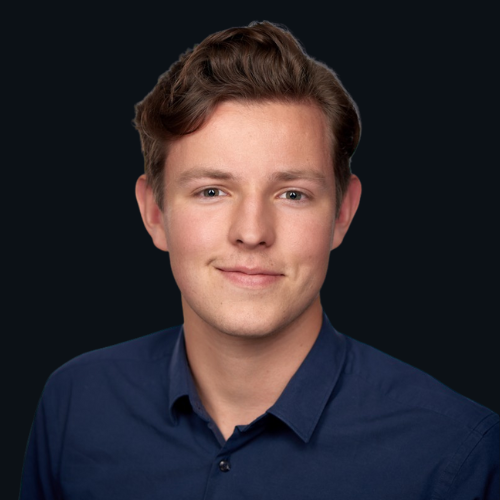
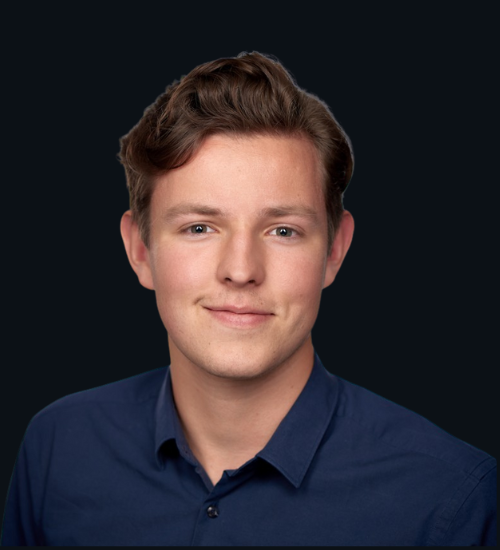
hero and navbar mobile done

diff --git a/src/Components/Hero.jsx b/src/Components/Hero.jsx
@@ -10,7 +10,7 @@ function Hero() {
         <h1>
           Full-Stack <span>Web Developer</span>{" "}
         </h1>
-        <img width={300} src={Piet} alt="piet-hein" />
+        <img width={290} src={Piet} alt="piet-hein" />
         <p>
           “With a passion for building websites and full-stack applications, I
           combine creativity, problem-solving, and a results-driven approach to
@@ -22,9 +22,9 @@ function Hero() {
             <span>
               <svg
                 xmlns="http://www.w3.org/2000/svg"
-                width="25"
-                height="13"
-                viewBox="0 0 20 25"
+                width="18"
+                height="11"
+                viewBox="0 0 20 22"
               >
                 <path
                   fill="#02609a"

diff --git a/src/index.css b/src/index.css
@@ -35,13 +35,13 @@ h2 {
 .primary-button {
   background-image: linear-gradient(to right, #02609a, #77BFD2);
   border-radius: 20px;
-  width: 140px;
+  width: 130px;
   border-style: none;
   color: #FFFFFF;
   cursor: pointer;
   font-size: 15px;
   font-weight: 500;
-  height: 40px;
+  height: 35px;
   padding: 10px;
   text-align: center;
   text-shadow: rgba(0, 0, 0, 0.25) 0 3px 8px;
@@ -64,10 +64,16 @@ h2 {
   color: #02609a;
   padding: 10px;
   border-radius: 20px;
-  width: 140px;
+  width: 130px;
   text-align: center;
-  height: 40px;
-  font-size: 15px;
+  height: 35px;
+  font-size: 14px;
 
 }
 
+.secondary-button:hover {
+  cursor: pointer;
+  transform: scale(1.02);
+  border: 1px solid #0978bd;
+  box-shadow: #118edc21 0px 8px 24px;
+}

diff --git a/src/Components/Navbar.jsx b/src/Components/Navbar.jsx
@@ -12,7 +12,7 @@ function Navbar() {
       <div className="navbar-container">
         <div className="logo">
           <NavLink to="/">
-            <img width={60} src={logo} alt="logo" />
+            <img width={55} src={logo} alt="logo" />
           </NavLink>
         </div>
         <nav>
@@ -46,7 +46,7 @@ function Navbar() {
           <button className="primary-button">Let's connect</button>
         </div>
         <div className="menu">
-          <img width={40} src={menu} alt="menu-icon" />
+          <img width={48} src={menu} alt="menu-icon" />
         </div>
       </div>
     </div>

diff --git a/src/Components/Navbar.css b/src/Components/Navbar.css
@@ -2,7 +2,7 @@
   display: flex;
   align-items: center;
   justify-content: space-between;
-  padding-top: 15px;
+  padding-top: 12px;
   background-image: url(../assets/background-nav.png);
   background-size: cover;
   background-position: left;
@@ -10,6 +10,11 @@
   width: 100vw;
   height: 80px;
 
+}
+
+.logo {
+  padding-left: 10px;
+  padding-top: 8px;
 }
 
 .navbar-links {
@@ -38,6 +43,9 @@
 
 .menu {
   padding-right: 20px;
+  padding-top: 8px;
+
+
   img:hover {
     transform: scale(1.05);
   }

diff --git a/src/Components/Hero.css b/src/Components/Hero.css
@@ -11,19 +11,23 @@
   flex-direction: column;
 
 
+
   h2 {
     color: white;
   }
 
-  
+  h1 {
+    padding-bottom: 30px;
+  }
 
   img {
-    margin: 0 auto;
     rotate: 2deg;
     border-radius: 38px;
     border: 2px solid #77bed23e;
     height: auto;
-    margin-bottom: 30px;
+    margin-bottom: 20px;
+    padding-left: 10px;
+    margin-left: 15px;
   }
 
   img:hover {
@@ -35,6 +39,7 @@
   p {
     width: 280px;
     padding-top: 20px;
+    padding-bottom: 30px;
   }
 
 
